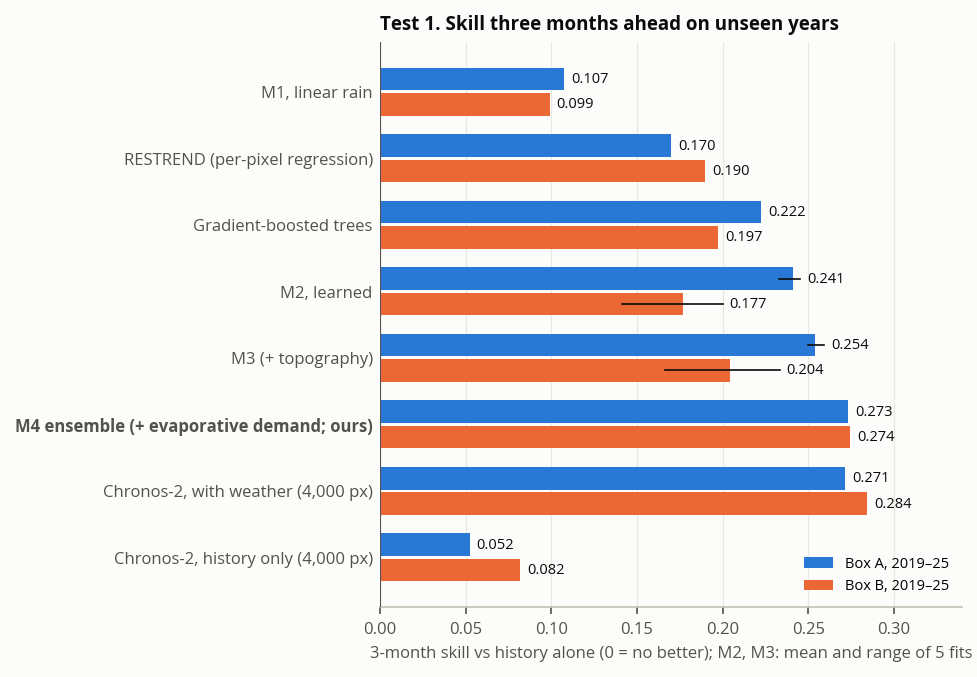
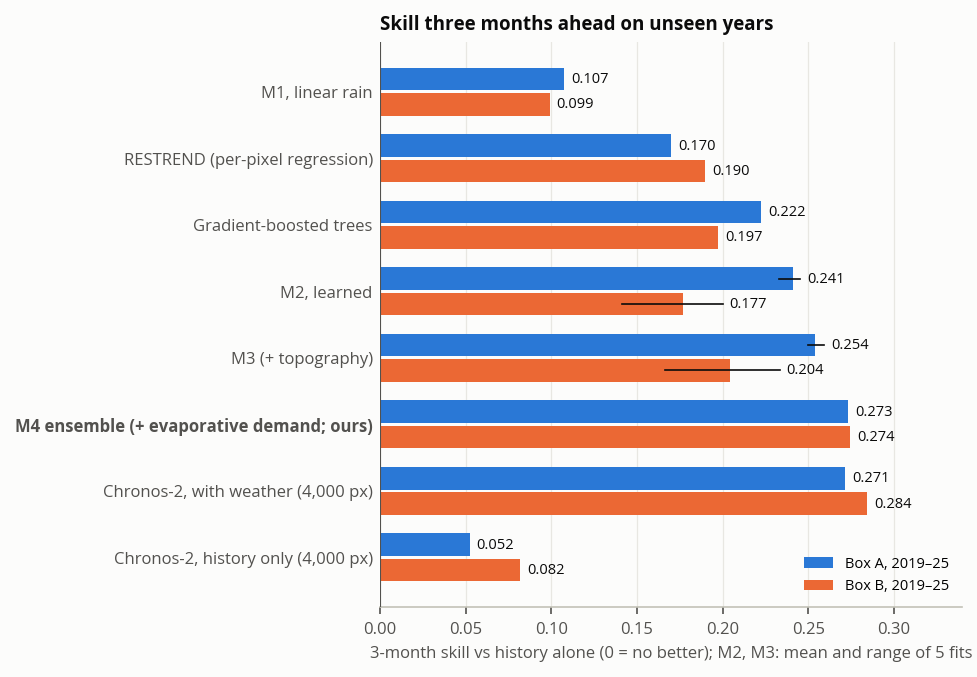
Add citations and gradient-boosted trees baseline; cut identification test, anomaly score and remaining M2 text

Changed region(s): [[0.3992, 0.0, 0.8598, 0.062]]

diff --git a/paper/main.tex b/paper/main.tex
@@ -37,7 +37,7 @@ Carbon credits, offsets and index insurance rest on counterfactuals: what the la
 \end{abstract}
 
 \section{Approach}
-Various methodologies exist to measure the carbon capture attributable to sustainable grassland management practices, such as rotation of grazing animals, replanting strategies, and backburning. The Northern Kenya Rangelands Carbon Project, the world's largest soil carbon removal project, earns one credit per tonne of CO$_2$ stored in soil above a baseline set by VM0032, a pioneering grazing methodology \citep{vm0032,verra2023}. However, that baseline was contested enough for Verra to suspend issuance for eight months in 2023 \citep{verra2023,si2023}. Its baseline model, SNAP \citep{ritchie2014,nkgcp_pd2016}, uses only mean annual rainfall, rather than an input such as CHIRPS 16-day periodic rainfall \citep{nkcp} or even seasonal rain records. Elsewhere, livestock index insurance in the same counties pays on seasonal NDVI against the pixel's own history \citep{ibli}. For maximum efficiency, the insurer ideally would want to quantify forage loss attributed only to factors specifically included in the policy such as drought, rather than management decisions such as overgrazing. Both categories of payment would benefit from a clean split between what the land did because of the climate and what it did because of everything else, and to the best of our knowledge, no current operational baseline makes that split cleanly. The model we propose makes that split with climate factors as its conditioning input. In this work we demonstrate the concept with the two terms of the climatic water balance \citep{spei} in these rangelands, CHIRPS rain and ERA5 evaporative demand (ED) \textbf{add ERA5 citation}, estimating the specific terrain response from data as a transition density $p_\theta(a_{t+1}\mid a_t, w_t, u_{t+1})$ for the greenness anomaly $a$ given a memory $w$ of past climatic water balance and its current value $u$. We also show that adding static attributes (TODO cite Kratzert 2019) materially improves the model's skill in forecasts over single-step (16 days) and 3-month timeframes, by adding in topography in the form of Copernicus DEM GLO-30 elevation, slope, and topographic position \textbf{add citation}.
+Various methodologies exist to measure the carbon capture attributable to sustainable grassland management practices, such as rotation of grazing animals, replanting strategies, and backburning. The Northern Kenya Rangelands Carbon Project, the world's largest soil carbon removal project, earns one credit per tonne of CO$_2$ stored in soil above a baseline set by VM0032, a pioneering grazing methodology \citep{vm0032,verra2023}. However, that baseline was contested enough for Verra to suspend issuance for eight months in 2023 \citep{verra2023,si2023}. Its baseline model, SNAP \citep{ritchie2014,nkgcp_pd2016}, uses only mean annual rainfall, rather than an input such as CHIRPS 16-day periodic rainfall \citep{nkcp} or even seasonal rain records. Elsewhere, livestock index insurance in the same counties pays on seasonal NDVI against the pixel's own history \citep{ibli}. For maximum efficiency, the insurer ideally would want to quantify forage loss attributed only to factors specifically included in the policy such as drought, rather than management decisions such as overgrazing. Both categories of payment would benefit from a clean split between what the land did because of the climate and what it did because of everything else, and to the best of our knowledge, no current operational baseline makes that split cleanly. The model we propose makes that split with climate factors as its conditioning input. In this work we demonstrate the concept with the two terms of the climatic water balance \citep{spei} in these rangelands, CHIRPS rain and ERA5 evaporative demand (ED) \citep{hersbach2020}, estimating the specific terrain response from data as a transition density $p_\theta(a_{t+1}\mid a_t, w_t, u_{t+1})$ for the greenness anomaly $a$ given a memory $w$ of past climatic water balance and its current value $u$. We also show that adding static attributes \citep{kratzert2019} materially improves the model's skill in forecasts over single-step (16 days) and 3-month timeframes, by adding in topography in the form of Copernicus DEM GLO-30 elevation, slope, and topographic position \citep{copdem}.
 
 A Black-Scholes formula (BSF) model \citep{bs} is fed observables such as current stock price, strike price, and used to derive a parameter value -- implied volatility -- which cannot be observed directly but is implied by the market's current pricing of options. In our model the observables are the total state, alongside the rainfall and ED, and the model is inverted on observed greenness. What comes out is the residual i.e. what the land did beyond what the climate drivers by themselves explain. Furthermore, specific values can also be plugged back in to the model. Rolled forward from the same state under other weather, it returns the land expected under that weather. A season then splits into a baseline under normal weather, the effect of the weather that fell, and the residual. Derivatives come by automatic differentiation, as the Greeks come from the BSF.
 
@@ -56,7 +56,7 @@ A Black-Scholes formula (BSF) model \citep{bs} is fed observables such as curren
 Separating climate from land use in vegetation records is an old problem. Residual trend analysis (RESTREND) regresses annual or growing-season NDVI on accumulated rainfall and reads trends in the residual as human-induced degradation \citep{evans2004,wessels2007}; later variants find breakpoints in the residual trend \citep{burrell2017}, and vegetation sensitivity indices add a one-month memory term \citep{seddon2016}. These are linear in their drivers and fitted pixel by pixel at annual or monthly scale. M1 below is a 16-day version; M2 replaces the regression with a learned, state-dependent transition density shared across pixels. In East Africa, NDVI tracks the rain of the current and two preceding months, with a response that has been found to flatten in wetter areas \citep{nicholson1990,davenport1993}. Operational drought monitoring and livestock insurance in Kenya score NDVI against the pixel's own history \citep{kogan1990,klisch2016,vrieling2014,ibli} i.e. the history-only baseline M0. Deep temporal models conditioned on weather already predict crop yield \citep{shook2021}; probabilistic deep forecasters and time-series foundation models output predictive densities \citep{salinas2020,rasul2023,ansari2024}, and one has forecast leaf area index zero-shot \citep{zhang2025}. To the best of our knowledge, none are built to be inverted on observations or re-run under another driver path.
 
 \section{Setup}
-\paragraph{Data} The target $a_t$ is greenness, the normalised difference vegetation index (NDVI) from the MODIS satellite product MOD13Q1 \citep{mod13}, at $250$\,m every 16 days (one composite), 2002--2025, as an anomaly against each pixel's 2003--2018 climatology. The z-score used throughout is this anomaly divided by the pixel's standard deviation for that time of year. The input $r_t$ is rain from CHIRPS \citep{chirps} summed over the same 16-day windows, in units of $100$\,mm; $e_t$ is ED, FAO-56 reference evapotranspiration from ERA5 \textbf{add citation}, likewise summed, as an anomaly against 2003--2018. The setting is two $45$\,km regions in Laikipia, Kenya, with rains in March--May and October--December: Box A (development) and Box B (held-out landscape) to its west (Figure~\ref{fig:map}, Appendix). We fit on Box A 2003--2017, early-stop on 2018, and evaluate on Box A 2019--2025, 14 seasons including the 2021--22 drought and 2023 recovery, and on Box B for the same 2019--2025 timeframe.
+\paragraph{Data} The target $a_t$ is greenness, the normalised difference vegetation index (NDVI) from the MODIS satellite product MOD13Q1 \citep{mod13}, at $250$\,m every 16 days (one composite), 2002--2025, as an anomaly against each pixel's 2003--2018 climatology. The z-score used throughout is this anomaly divided by the pixel's standard deviation for that time of year. The input $r_t$ is rain from CHIRPS \citep{chirps} summed over the same 16-day windows, in units of $100$\,mm; $e_t$ is ED, FAO-56 reference evapotranspiration \citep{allen1998} from ERA5 \citep{hersbach2020}, likewise summed, as an anomaly against 2003--2018. The setting is two $45$\,km regions in Laikipia, Kenya, with rains in March--May and October--December: Box A (development) and Box B (held-out landscape) to its west (Figure~\ref{fig:map}, Appendix). We fit on Box A 2003--2017, early-stop on 2018, and evaluate on Box A 2019--2025, 14 seasons including the 2021--22 drought and 2023 recovery, and on Box B for the same 2019--2025 timeframe.
 
 \paragraph{Model} Each step sees only the current state, not the series i.e. Markovian. The state is the anomaly $a_t$ and an antecedent index $w_t$ of the climatic water balance, a one-parameter bucket whose memory $\lambda(x)$ depends on the pixel's traits:
 \begin{align}
@@ -65,7 +65,7 @@ a_{t+1} &= a_t + \mu_\theta(a_t, \bar a_t, w_t, u_{t+1}, \phi_{t+1}, x) \nonumbe
 &\quad + \sigma_\theta(\cdot)\,\varepsilon_t,\qquad \varepsilon_t\sim\mathcal N(0,1),
 \label{eq:model}
 \end{align}
-where $t$ indexes 16-day steps, $\bar a_t$ is the $5\times5$ neighbourhood mean of $a_t$, $\phi_{t+1}$ is the seasonal phase (sine and cosine of day of year), $x$ is six static traits of the pixel: mean NDVI, seasonal amplitude, climatological annual rain, and elevation, slope and topographic position from the Copernicus GLO-30 DEM \textbf{add citation}, and $u_t=r_t-k(x)\,e_t$ is rain net of ED, the climatic water balance \citep{spei}, with $k$ linear in the traits. $w_t$ is a decaying sum of past $u_t$ that keeps a fraction $\lambda(x)=\mathrm{sigmoid}(c_0+c^\top x)$ each step. $\mu_\theta$ is the expected change in the anomaly and $\sigma_\theta$ its spread, both functions of the same six inputs, so $p_\theta(a_{t+1}\mid\cdot)=\mathcal N(a_t+\mu_\theta,\sigma_\theta^2)$; $\theta$ is one set of weights shared by every pixel. \textbf{M0} uses history alone. \textbf{M1} has $\mu$ and $\log\sigma$ linear in the features. \textbf{M1.5} adds a hand-written S-curve in $w_t+r_{t+1}$, six parameters. \textbf{M2} adds a 64-unit one-hidden-layer network to $\mu$ and $\log\sigma$. \textbf{M3} adds the topographic traits. \textbf{M4} adds ED ($k=0$ below M4) and is an equal-weight mixture of five fits. All are fitted by full-batch Adam \citep{kingma2015} on the one-step Gaussian log-likelihood of observed transitions.
+where $t$ indexes 16-day steps, $\bar a_t$ is the $5\times5$ neighbourhood mean of $a_t$, $\phi_{t+1}$ is the seasonal phase (sine and cosine of day of year), $x$ is six static traits of the pixel: mean NDVI, seasonal amplitude, climatological annual rain, and elevation, slope and topographic position from the Copernicus GLO-30 DEM \citep{copdem}, and $u_t=r_t-k(x)\,e_t$ is rain net of ED, the climatic water balance \citep{spei}, with $k$ linear in the traits. $w_t$ is a decaying sum of past $u_t$ that keeps a fraction $\lambda(x)=\mathrm{sigmoid}(c_0+c^\top x)$ each step. $\mu_\theta$ is the expected change in the anomaly and $\sigma_\theta$ its spread, both functions of the same six inputs, so $p_\theta(a_{t+1}\mid\cdot)=\mathcal N(a_t+\mu_\theta,\sigma_\theta^2)$; $\theta$ is one set of weights shared by every pixel. \textbf{M0} uses history alone. \textbf{M1} has $\mu$ and $\log\sigma$ linear in the features. \textbf{M1.5} adds a hand-written S-curve in $w_t+r_{t+1}$, six parameters. \textbf{M2} adds a 64-unit one-hidden-layer network to $\mu$ and $\log\sigma$. \textbf{M3} adds the topographic traits. \textbf{M4} adds ED ($k=0$ below M4) and is an equal-weight mixture of five fits. All are fitted by full-batch Adam \citep{kingma2015} on the one-step Gaussian log-likelihood of observed transitions.
 
 \paragraph{Residual} Inverting \eqref{eq:model} on an observed transition gives the implied (standardised) residual,
 \begin{equation}
@@ -77,9 +77,8 @@ one number per pixel per 16 days, in units of the model's own spread. Accumulate
 a_{t+h}=F_h(\bar r,0)+\big[F_h(r,e)-F_h(\bar r,0)\big]+\big[a_{t+h}-F_h(r,e)\big].
 \label{eq:split}
 \end{equation}
-The weather term is divided between rain and ED by Shapley value over the four combinations of observed and normal rain and ED \textbf{add citation}. Sensitivities (following BSF Greeks) are Jacobian-vector products through the rollout: $\Delta_h=\partial F_h/\partial r_{t+1}$, greenness $h$ steps ahead per $100$\,mm of rain now; $\Theta_h=\partial F_h/\partial a_t$, how much of today's anomaly survives. The anomaly score is $-\log p_\theta(a_{t+1}\mid a_t,w_t,u_{t+1})$ i.e. the surprise of the weather-conditioned model at what the satellite saw. N.B. the residual and the score are (approximately) two readings of the same quantity.
-
-\paragraph{Evaluation} Error is the continuous ranked probability score (CRPS) \citep{gneiting2007}, the probabilistic generalisation of absolute error, on observed held-out pixel-steps (one pixel at one 16-day composite); skill is $1-\mathrm{CRPS}/\mathrm{CRPS}_{\mathrm{M0}}$. Each model is scored one step (16 days) ahead, and rolled forward three months along the observed weather.
+The weather term is divided between rain and ED by Shapley value over the four combinations of observed and normal rain and ED \citep{shapley1953}. Sensitivities (following BSF Greeks) are Jacobian-vector products through the rollout: $\Delta_h=\partial F_h/\partial r_{t+1}$, greenness $h$ steps ahead per $100$\,mm of rain now; $\Theta_h=\partial F_h/\partial a_t$, how much of today's anomaly survives.
+\paragraph{Evaluation} Error is the continuous ranked probability score (CRPS) \citep{gneiting2007}, the probabilistic generalisation of absolute error, on observed held-out pixel-steps (one pixel at one 16-day composite); skill is $1-\mathrm{CRPS}/\mathrm{CRPS}_{\mathrm{M0}}$. Each model is scored one step (16 days) ahead, and rolled forward three months along the observed weather. As the canonical machine-learning baseline we also fit gradient-boosted trees \citep{friedman2001} on recent greenness, rain and the pixel's traits. 
 
 \section{Results}
 \begin{figure*}[t]
@@ -88,8 +87,7 @@ The weather term is divided between rain and ED by Shapley value over the four c
 \label{fig:attribution}
 \end{figure*}
 
-\paragraph{Fit} M4's one-step skill exceeds M1's by $0.10$ on unseen years and $0.09$ on the unseen landscape. Along the weather that fell, three-month error is $27\%$ below history and $12\%$ below RESTREND on unseen years, $27\%$ and $10\%$ on the unseen landscape (Figure~\ref{fig:response}, Table~\ref{tab:onestep}). Fed climatological rain the same network falls behind history within two months; fitted without rain its skill is $0.016$. The S-curve's amplitude fitted near zero: the nonlinearity is in how rain interacts with pixel, state and season, not in rain alone. \textbf{TODO M2 numbers in the last two sentences, keep as M2 evidence or cut}
-
+\paragraph{Fit} M4's one-step skill exceeds M1's by $0.10$ on unseen years and $0.09$ on the unseen landscape. Along the weather that fell, three-month error is $27\%$ below history and $12\%$ below RESTREND on unseen years, $27\%$ and $10\%$ on the unseen landscape (Figure~\ref{fig:response}, Table~\ref{tab:onestep}).
 \paragraph{Residual and counterfactual} In March--May 2021 rain was $9$\,mm above normal and evaporative demand $13$\,mm above. The weather term is $+0.01$ NDVI and the residual $-0.03$. In March--May 2022 rain was $124$\,mm below normal and evaporative demand $48$\,mm above, and the box ended $0.17$ NDVI below normal (Figure~\ref{fig:attribution}). History alone predicts recovery, so a z-score assigns the whole $0.17$ to the land. From the late-February state the model expects $-0.01$ under normal weather. The rain that failed accounts for $0.06$, excess evaporative demand $0.04$ and the residual $0.06$. The run under the weather that fell is the reference for a credit, and the residual is what management is credited or debited for. The weather term is what an index insurer pays on. The land leaves the range of ordinary non-weather variation only in the last month of the season, and history's recovery ends above that range. What the model leaves unexplained barely leans with the weather. Across 13 held-out seasons it moves $+0.004$ NDVI per $100$\,mm of rain, against $+0.043$ for a z-score (Appendix).
 
 \paragraph{Sensitivities}
@@ -105,7 +103,7 @@ B, unseen land & $.092$ & $.076$ & $.111$ & $.062/.083/.098$ & $.018$ & $[-.046,
 
 \begin{figure}[t]
 \centering\includegraphics[width=\columnwidth]{chronos2/fig_sens_c2.png}
-\caption{$\Delta$ per 2\,km block, Box A, unseen years 2019--25. Left, the observed response, the NDVI change two steps on per $100$\,mm of rain anomaly, given starting greenness. Middle, the M4 ensemble's mean $\Delta$ over the same starts. Right, Chronos-2 \textbf{add Chronos-2 citation}, a pretrained forecaster given the same weather, on 4,000 sampled pixels.}
+\caption{$\Delta$ per 2\,km block, Box A, unseen years 2019--25. Left, the observed response, the NDVI change two steps on per $100$\,mm of rain anomaly, given starting greenness. Middle, the M4 ensemble's mean $\Delta$ over the same starts. Right, Chronos-2 \citep{chronos2}, a pretrained forecaster given the same weather, on 4,000 sampled pixels.}
 \end{figure}
 
 \textbf{$\Delta$ -- } On the grid mean an extra $100$\,mm of rain raises greenness by $0.072$ NDVI a month later. Recomputed from the current state at each rainy-season step, $\Delta$ sorts exposure well on unseen years. Sorted by $\Delta$, the top third of patches green about three times as much per $100$\,mm as the least (Table~\ref{tab:greeks}). On the unseen landscape the ranking does not hold, within pixels or across them (Table~\ref{tab:greekstests}).

diff --git a/paper/supplement.tex b/paper/supplement.tex
@@ -35,11 +35,9 @@
 \maketitle
 
 \section{Location, Data, Tables, Fitting}
-\paragraph{Data and preparation} Three sources are fused onto one grid and one calendar. The surface is MODIS Terra MOD13Q1 v061 NDVI \citep{mod13} at $250$\,m, one composite per 16 days from 2002 to 2025 (537 composites), warped to a $0.0025^\circ$ grid of $160\times160$ pixels per box. Pixels whose reliability flag exceeds 1 (cloud, snow, fill; $2\%$ of pixel-steps) are treated as unobserved: their values are interpolated in time so the model always has an input state, but they are never used as targets. Each pixel's climatology is its mean NDVI per composite-of-year over 2003--2018, and the anomaly $a_t$ is NDVI minus that climatology. Rain is CHIRPS v2 daily rainfall \citep{chirps} at $0.05^\circ$, summed over each composite's 16-day window and bilinearly resampled to the grid, in units of $100$\,mm, with a climatology built the same way. Evaporative demand is FAO-56 reference evapotranspiration from ERA5 at $0.25^\circ$ \textbf{add ERA5 citation}, taken daily from the Open-Meteo archive on a $0.2^\circ$ lattice, summed over the same windows, bilinearly interpolated to the grid and expressed as an anomaly against 2003--2018. Static covariates $x$ are the pixel's mean NDVI, seasonal amplitude and climatological annual rain, and elevation, slope and topographic position from the Copernicus GLO-30 DEM \textbf{add citation}, all standardised on Box A. The MODIS record has gaps: no composites for 61 days after 1 November 2021, so October--December 2021, one of the two drought seasons, contributes two composites, and about 30 days after 2 February 2023, 27 July 2024 and 2 December 2024. The $\Delta$ ranking test uses only starts whose two-step outcome does not span a gap. Other analyses keep them.
+\paragraph{Data and preparation} Three sources are fused onto one grid and one calendar. The surface is MODIS Terra MOD13Q1 v061 NDVI \citep{mod13} at $250$\,m, one composite per 16 days from 2002 to 2025 (537 composites), warped to a $0.0025^\circ$ grid of $160\times160$ pixels per box. Pixels whose reliability flag exceeds 1 (cloud, snow, fill; $2\%$ of pixel-steps) are treated as unobserved: their values are interpolated in time so the model always has an input state, but they are never used as targets. Each pixel's climatology is its mean NDVI per composite-of-year over 2003--2018, and the anomaly $a_t$ is NDVI minus that climatology. Rain is CHIRPS v2 daily rainfall \citep{chirps} at $0.05^\circ$, summed over each composite's 16-day window and bilinearly resampled to the grid, in units of $100$\,mm, with a climatology built the same way. Evaporative demand is FAO-56 reference evapotranspiration \citep{allen1998} from ERA5 at $0.25^\circ$ \citep{hersbach2020}, taken daily from the Open-Meteo archive on a $0.2^\circ$ lattice, summed over the same windows, bilinearly interpolated to the grid and expressed as an anomaly against 2003--2018. Static covariates $x$ are the pixel's mean NDVI, seasonal amplitude and climatological annual rain, and elevation, slope and topographic position from the Copernicus GLO-30 DEM \citep{copdem}, all standardised on Box A. The MODIS record has gaps: no composites for 61 days after 1 November 2021, so October--December 2021, one of the two drought seasons, contributes two composites, and about 30 days after 2 February 2023, 27 July 2024 and 2 December 2024. The $\Delta$ ranking test uses only starts whose two-step outcome does not span a gap. Other analyses keep them.
 
 \paragraph{Residual runs} The splits of Figures~\ref{fig:split} and~\ref{fig:attribution} use the five fitted M4 networks with no refitting. Each season starts from the observed state before its first 16-day window and runs six windows, and every term is a rollout with zero residual, averaged over the fits. Figure~\ref{fig:split} averages $8\times8$-pixel (2\,km) blocks and Figure~\ref{fig:attribution} the whole box, so their box means can differ slightly. The shaded range in Figure~\ref{fig:attribution} re-runs March--May 2022 along its observed weather 500 times. Each draw takes a random fit and, at each step, that fit's residual map from the same step of a random March--May season in 2003--2017, which keeps the residual's spatial correlation. Across the five fits the 2022 weather term runs from $-0.091$ to $-0.114$ NDVI. March--May 2021 splits into baseline $+0.00$, rain $+0.02$, evaporative demand $-0.01$ and residual $-0.03$, against an observed $-0.02$. Over 13 held-out seasons on 2\,km blocks, the residual moves $+0.004$ NDVI per $100$\,mm of rain ($95\%$ interval $-0.006$ to $+0.025$) and $-0.050$ per $100$\,mm of evaporative demand ($-0.156$ to $+0.017$), against $+0.043$ and $-0.287$ for a z-score. Reading this as the weather's share left in the residual assumes management does not itself follow the weather.
-
-\paragraph{Identification test} \textbf{TODO M2 world and old split, pending a rerun under the new split.} Pre-registered. The fitted M2 is taken as the true world, driven by each held-out season's real standardised residuals, so any error is the assumption's alone. Management of $-0.01$ NDVI per window is added on a fixed random half of $8\times8$-pixel (2\,km) blocks; its true effect at season end under normal rain is $-0.027$ NDVI. Drought seasons are those with rain more than $60$\,mm below normal (four of 13). Error in the recovered management effect, drought / other seasons: management independent of rain $+18\%$ (largest $30\%$; March--May 2022 $+28\%$) / $+1\%$; pressure rising when rain fails $+47\%$ / $4\%$; pressure falling when rain fails $-7\%$ / $11\%$. Holding the residual in NDVI rather than spread units is worse and does not bracket the truth. Multiplicative CHIRPS error of $25\%$ / $50\%$ per $0.05^\circ$ cell moves the box-mean counterfactual by at most $0.005$ / $0.013$ NDVI and single pixels by $0.03$ / $0.05$--$0.11$ (RMSE). Marginal-quality MODIS pixel-steps ($16\%$) carry mean residual $+0.13$ (s.d.\ $1.31$) against $-0.01$ ($1.04$). The March--May 2022 counterfactual box mean, $-0.099$, becomes $-0.096$ with the rain-bin lean above removed from the residual, $-0.094$ on clean-quality pixels only, and $-0.087$ with the residual held in NDVI units.
 
 \begin{figure*}[t]
 \centering\includegraphics[width=\textwidth]{fig_map.png}
@@ -53,6 +51,7 @@
 Model & 16 days & 3 months & 16 days & 3 months\\\midrule
 M0 history only & 0.000 & 0.000 & 0.000 & 0.000\\
 RESTREND & -- & 0.170 & -- & 0.190\\
+Gradient-boosted trees & 0.046 & 0.222 & 0.003 & 0.197\\
 M1 linear & 0.013 & 0.107 & 0.040 & 0.099\\
 M2 learned & 0.092 & 0.241 & 0.075 & 0.177\\
 M3 with topography & 0.099 & 0.254 & 0.083 & 0.204\\
@@ -61,7 +60,7 @@ M4 ensemble & \textbf{0.111} & \textbf{0.273} & \textbf{0.131} & \textbf{0.274}\
 
 \begin{figure}[t]
 \centering\includegraphics[width=\columnwidth]{candidates/fig_suite_skill.png}
-\caption{Three-month skill on unseen years against history alone, given the weather that fell; no model uses a weather forecast. M2 and M3 show the mean and range of five fits. Chronos-2 \textbf{add Chronos-2 citation} is a pretrained forecaster, scored zero-shot on 4,000 sampled pixels, with and without the weather.}
+\caption{Three-month skill on unseen years against history alone, given the weather that fell; no model uses a weather forecast. M2 and M3 show the mean and range of five fits. Chronos-2 \citep{chronos2} is a pretrained forecaster, scored zero-shot on 4,000 sampled pixels, with and without the weather.}
 \label{fig:response}
 \end{figure}
 

diff --git a/revision/fig_suite.py b/revision/fig_suite.py
@@ -103,7 +103,7 @@ def fig_skill(R):
     ax.get_yticklabels()[5].set_fontweight("bold")
     ax.set_xlim(0, 0.34)
     frame(ax, "3-month skill vs history alone (0 = no better); M2, M3: mean and range of 5 fits",
-          "Test 1. Skill three months ahead on unseen years")
+          "Skill three months ahead on unseen years")
     ax.legend(loc="lower right", fontsize=7, frameon=False)
     save(fig, R, "fig_suite_skill")
 
